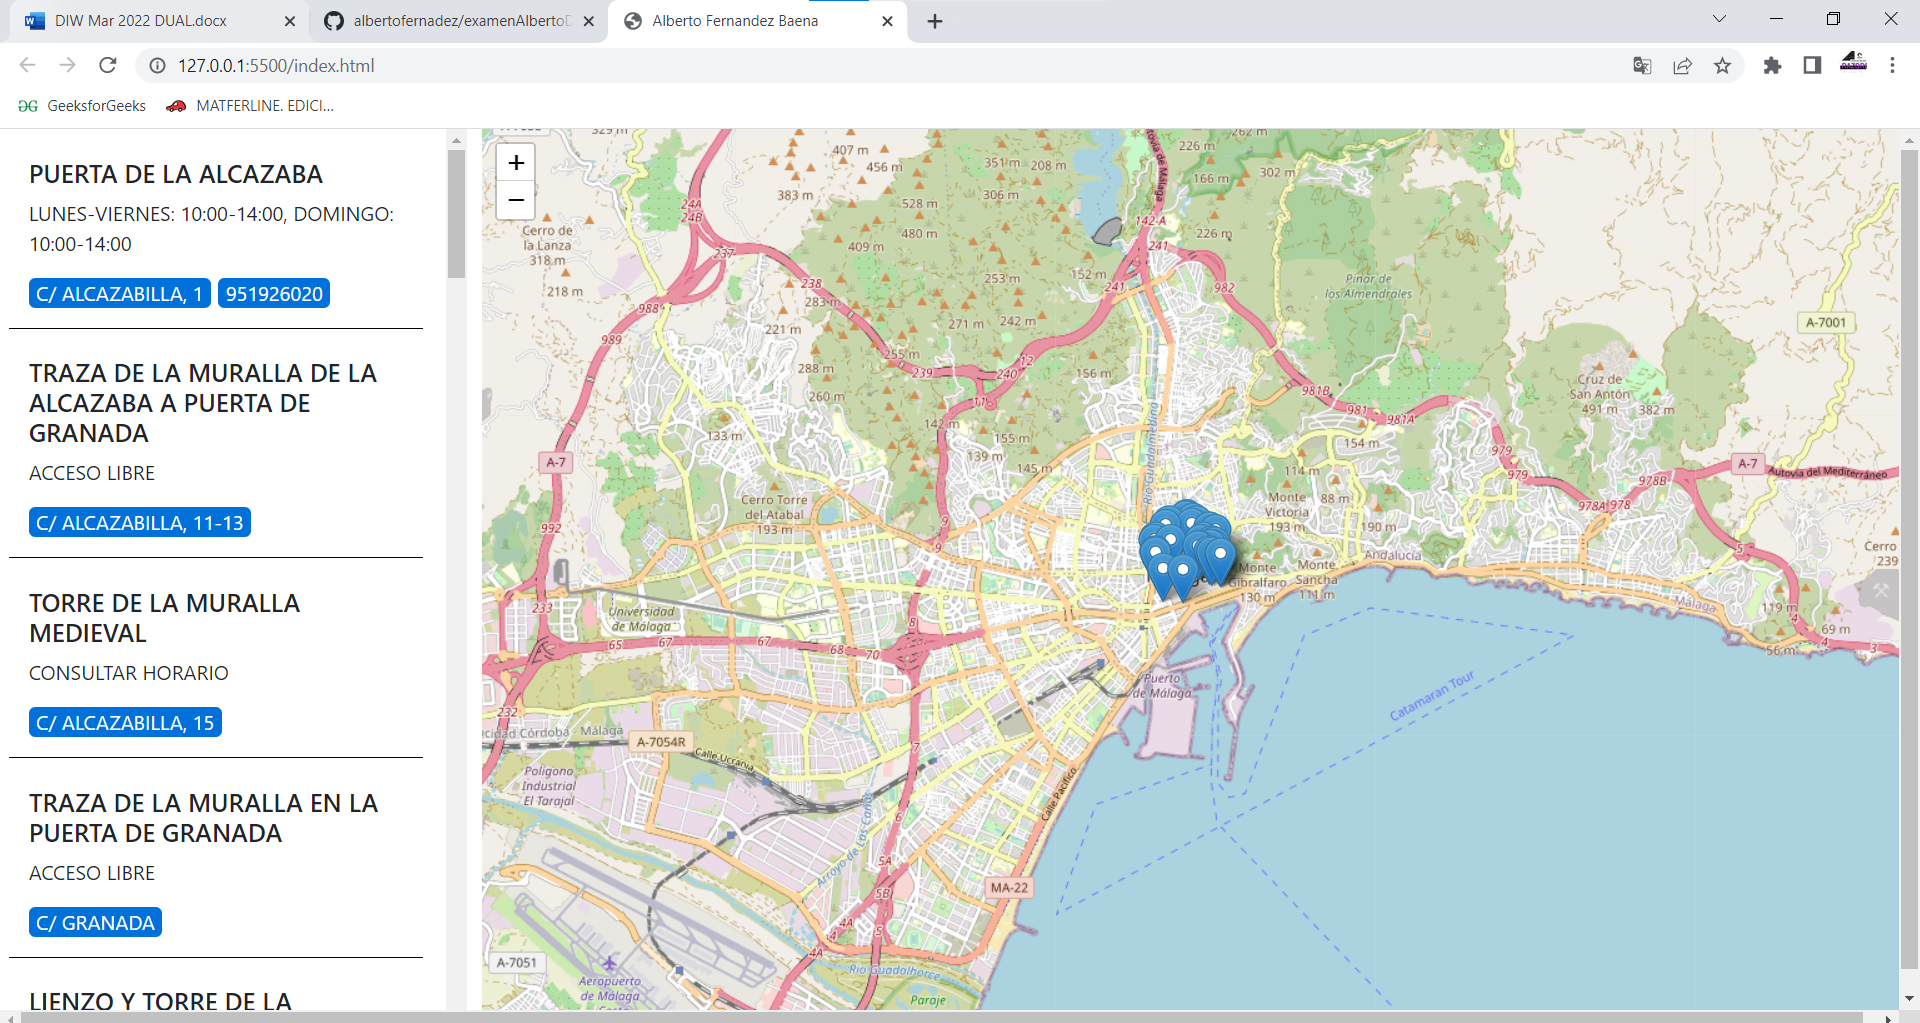
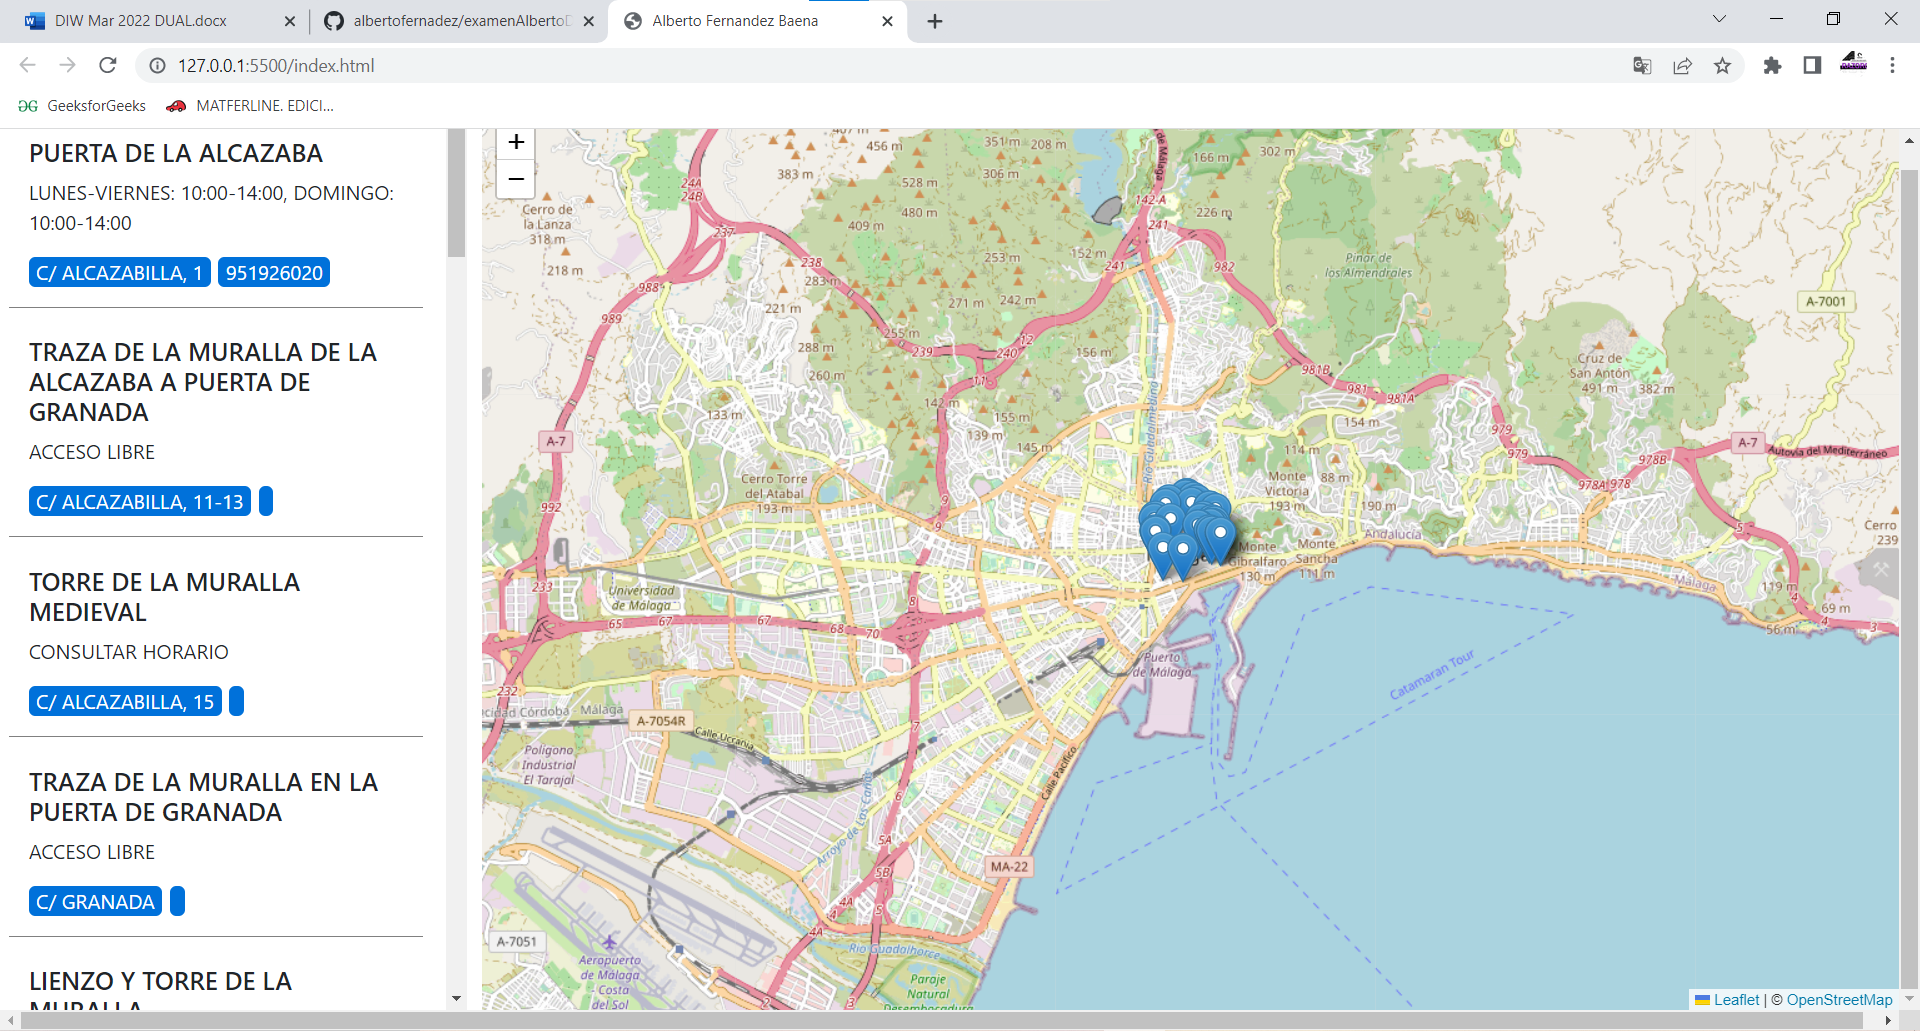
1

diff --git a/style.css b/style.css
@@ -1,5 +1,5 @@
 .elementos {
-    border-bottom: 1px solid black;
+    border-bottom: 1px solid gray;
     margin: 2%;
 }
 
